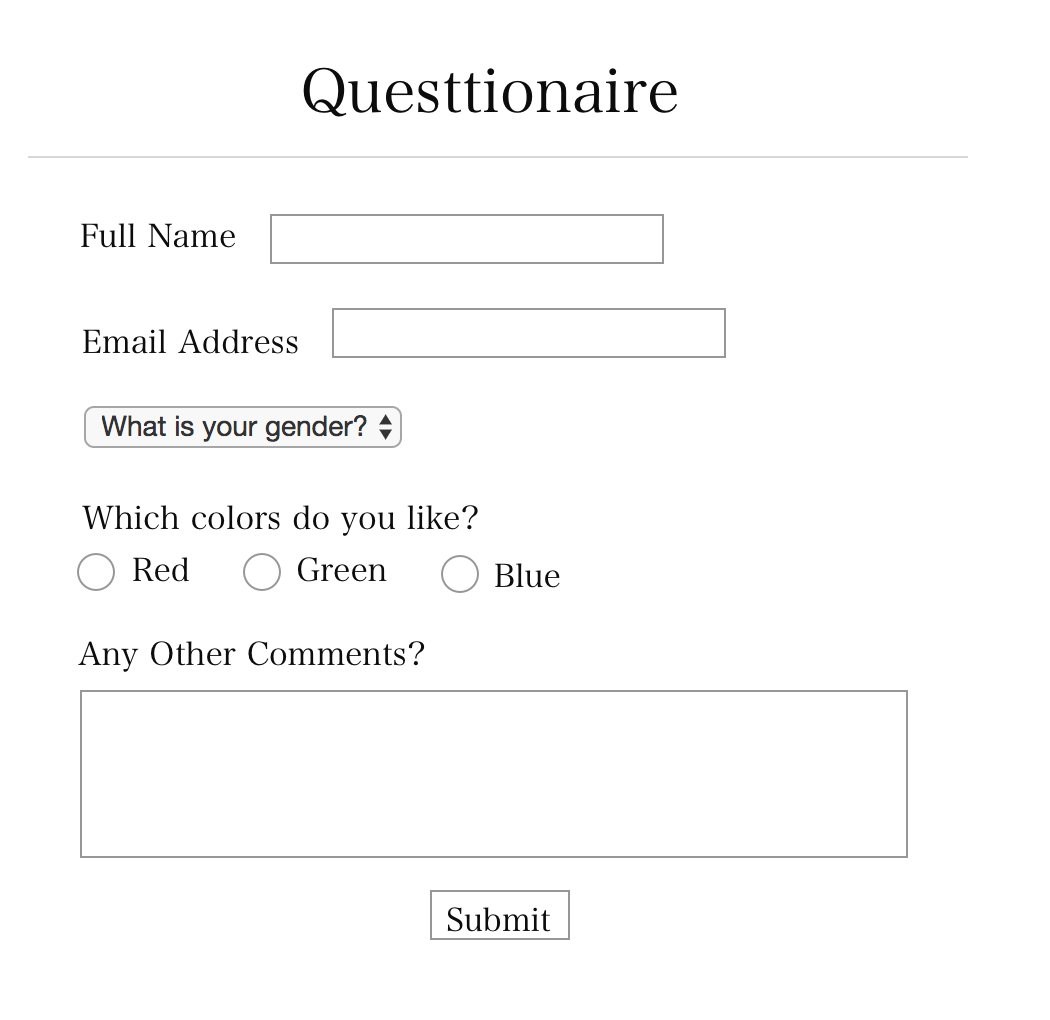
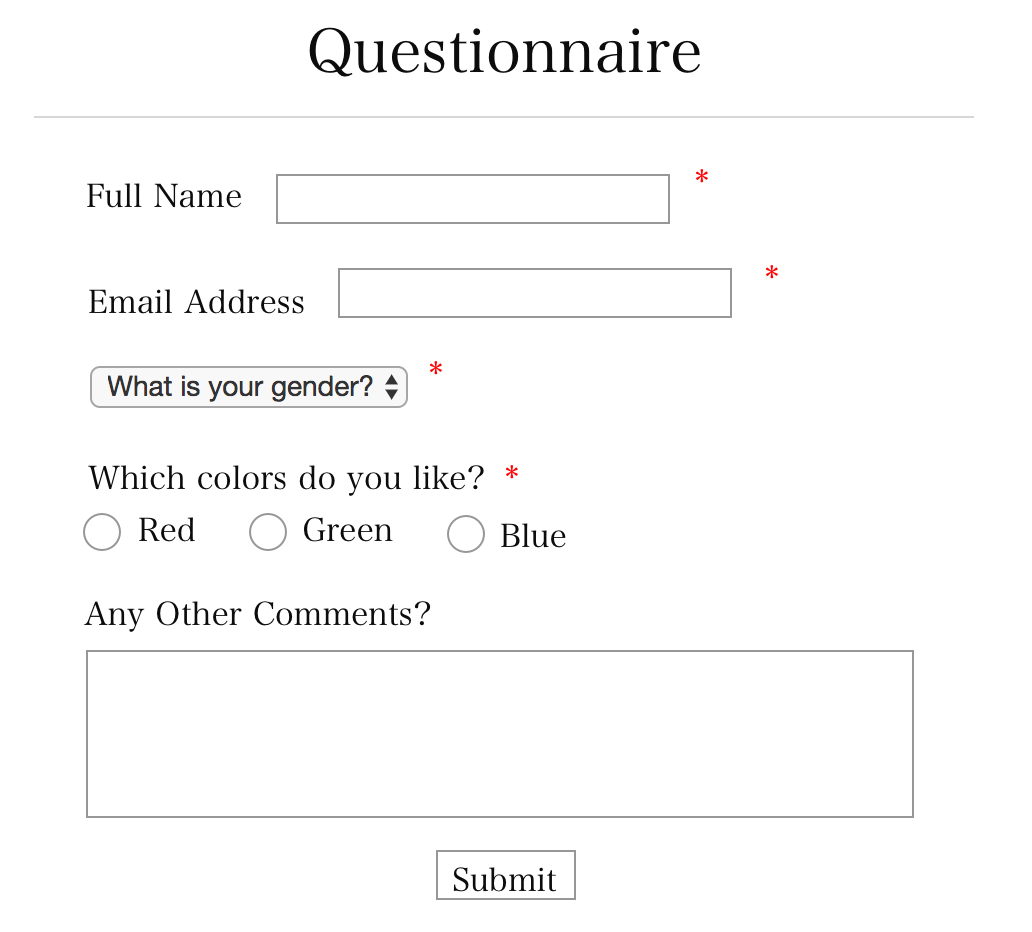
cleaned code

diff --git a/questionnaire/client/src/Questionnaire.js b/questionnaire/client/src/Questionnaire.js
@@ -5,22 +5,13 @@ class Questionnaire extends Component {
   constructor(props) {
     super(props);
     this.state = {
-      errors: {
-        name: "",
-        email: "",
-        gender: "",
-        "color.0": "",
-        comments: ""
-      }
+      errors: {}
     };
   }
 
   handleFormSubmit = async e => {
     e.preventDefault();
-    const { colors } = this.form;
-    const checkboxArray = Array.prototype.slice.call(colors);
-    const checkedCheckboxes = checkboxArray.filter(input => input.checked);
-    const checkedCheckboxesValues = checkedCheckboxes.map(input => input.value);
+    const checkedCheckboxesValues = this.processCheckbox();
     if (this.validateCheckbox(checkedCheckboxesValues)) {
       return;
     }
@@ -32,18 +23,14 @@ class Questionnaire extends Component {
       comments: this.comments.value
     };
     const status = await api.addNewResponse(payLoad);
-    let err = { errors: {} };
-    if (status !== "Response Added!") {
-      if (status.code === 11000) {
-        err.errors.email = "Duplicate email!";
-      } else {
-        Object.keys(status.errors).map(key => {
-          err.errors[key] = status.errors[key].message;
-        });
-      }
-      this.setState(err);
-    }
-    this.clearForm();
+    this.handleStatus(status);
+  };
+
+  processCheckbox = () => {
+    const { colors } = this.form;
+    const checkboxArray = Array.prototype.slice.call(colors);
+    const checkedCheckboxes = checkboxArray.filter(input => input.checked);
+    return checkedCheckboxes.map(input => input.value);
   };
 
   validateCheckbox = checkedCheckboxesValues => {
@@ -54,6 +41,22 @@ class Questionnaire extends Component {
       return true;
     }
     return false;
+  };
+
+  handleStatus = status => {
+    if (status !== "Response Added!") {
+      let err = { errors: {} };
+      if (status.code === 11000) {
+        err.errors.email = "Duplicate email!";
+      } else {
+        Object.keys(status.errors).map(key => {
+          err.errors[key] = status.errors[key].message;
+        });
+      }
+      this.setState(err);
+    } else {
+      this.clearForm();
+    }
   };
 
   clearForm = () => {
@@ -88,86 +91,84 @@ class Questionnaire extends Component {
           <h2 style={{ textAlign: "center" }}>Questionnaire</h2>
           <hr />
 
-          <div style={{}}>
-            <label>Full Name</label>
-            <input
-              type="text"
-              style={{ margin: 10 }}
-              ref={node => {
-                this.name = node;
-              }}
-              required
-              maxLength="100"
-              autoFocus
-            />
-            <span style={{ color: "red" }}>*</span>
+          <label>Full Name</label>
+          <input
+            type="text"
+            style={{ margin: 10 }}
+            ref={node => {
+              this.name = node;
+            }}
+            required
+            maxLength="100"
+            autoFocus
+          />
+          <span style={{ color: "red" }}>*</span>
+          <span style={{ color: "red", marginLeft: 8 }}>
+            {this.state.errors.name}
+          </span>
+          <br />
+
+          <label>Email Address</label>
+          <input
+            type="email"
+            style={{ margin: 10 }}
+            ref={node => {
+              this.email = node;
+            }}
+            required
+            maxLength="100"
+          />
+          <span style={{ color: "red" }}>*</span>
+          <span style={{ color: "red", marginLeft: 8 }}>
+            {this.state.errors.email}
+          </span>
+          <br />
+
+          <select
+            ref={node => {
+              this.gender = node;
+            }}
+            required
+          >
+            <option value="">What is your gender?</option>
+            {allGenderChoices}
+          </select>
+          <span style={{ color: "red" }}> *</span>
+          <span style={{ color: "red", marginLeft: 8 }}>
+            {this.state.errors.gender}
+          </span>
+          <br />
+
+          <label style={{ display: "inline-block", marginTop: 10 }}>
+            What colors do you like? <span style={{ color: "red" }}>*</span>
             <span style={{ color: "red", marginLeft: 8 }}>
-              {this.state.errors.name}
+              {this.state.errors["colors.0"]}
             </span>
-            <br />
+          </label>
+          <br />
+          {allColorChoices}
+          <br />
 
-            <label>Email Address</label>
-            <input
-              type="email"
-              style={{ margin: 10 }}
-              ref={node => {
-                this.email = node;
-              }}
-              required
-              maxLength="100"
-            />
-            <span style={{ color: "red" }}>*</span>
+          <label style={{ display: "inline-block", marginTop: 10 }}>
+            Any other comments?
             <span style={{ color: "red", marginLeft: 8 }}>
-              {this.state.errors.email}
+              {this.state.errors.comments}
             </span>
-            <br />
+          </label>
+          <textarea
+            style={{ width: "100%", marginBottom: 10 }}
+            rows="4"
+            ref={node => {
+              this.comments = node;
+            }}
+            maxLength="1000"
+          />
 
-            <select
-              ref={node => {
-                this.gender = node;
-              }}
-              required
-            >
-              <option value="">What is your gender?</option>
-              {allGenderChoices}
-            </select>
-            <span style={{ color: "red" }}> *</span>
-            <span style={{ color: "red", marginLeft: 8 }}>
-              {this.state.errors.gender}
-            </span>
-            <br />
-
-            <label style={{ display: "inline-block", marginTop: 10 }}>
-              What colors do you like? <span style={{ color: "red" }}>*</span>
-              <span style={{ color: "red", marginLeft: 8 }}>
-                {this.state.errors["colors.0"]}
-              </span>
-            </label>
-            <br />
-            {allColorChoices}
-            <br />
-
-            <label style={{ display: "inline-block", marginTop: 10 }}>
-              Any other comments?
-              <span style={{ color: "red", marginLeft: 8 }}>
-                {this.state.errors.comments}
-              </span>
-            </label>
-            <textarea
-              style={{ width: "100%", marginBottom: 10 }}
-              rows="4"
-              ref={node => {
-                this.comments = node;
-              }}
-              maxLength="1000"
-            />
-
-            <input
-              type="submit"
-              value="Submit!"
-              style={{ display: "block", margin: "auto" }}
-            />
-          </div>
+          <input
+            type="submit"
+            value="Submit!"
+            style={{ display: "block", margin: "auto" }}
+          />
         </form>
       </div>
     );

diff --git a/questionnaire/README.md b/questionnaire/README.md
@@ -3,7 +3,8 @@ A questionnaire app.
 ## Requirements
 
 * Clients can post a response to the server.
-* All previous responses can be displayed.
+* POST validation is done both client-side and server-side.
+* Error messages are displayed.
 
 ## Mock
 
